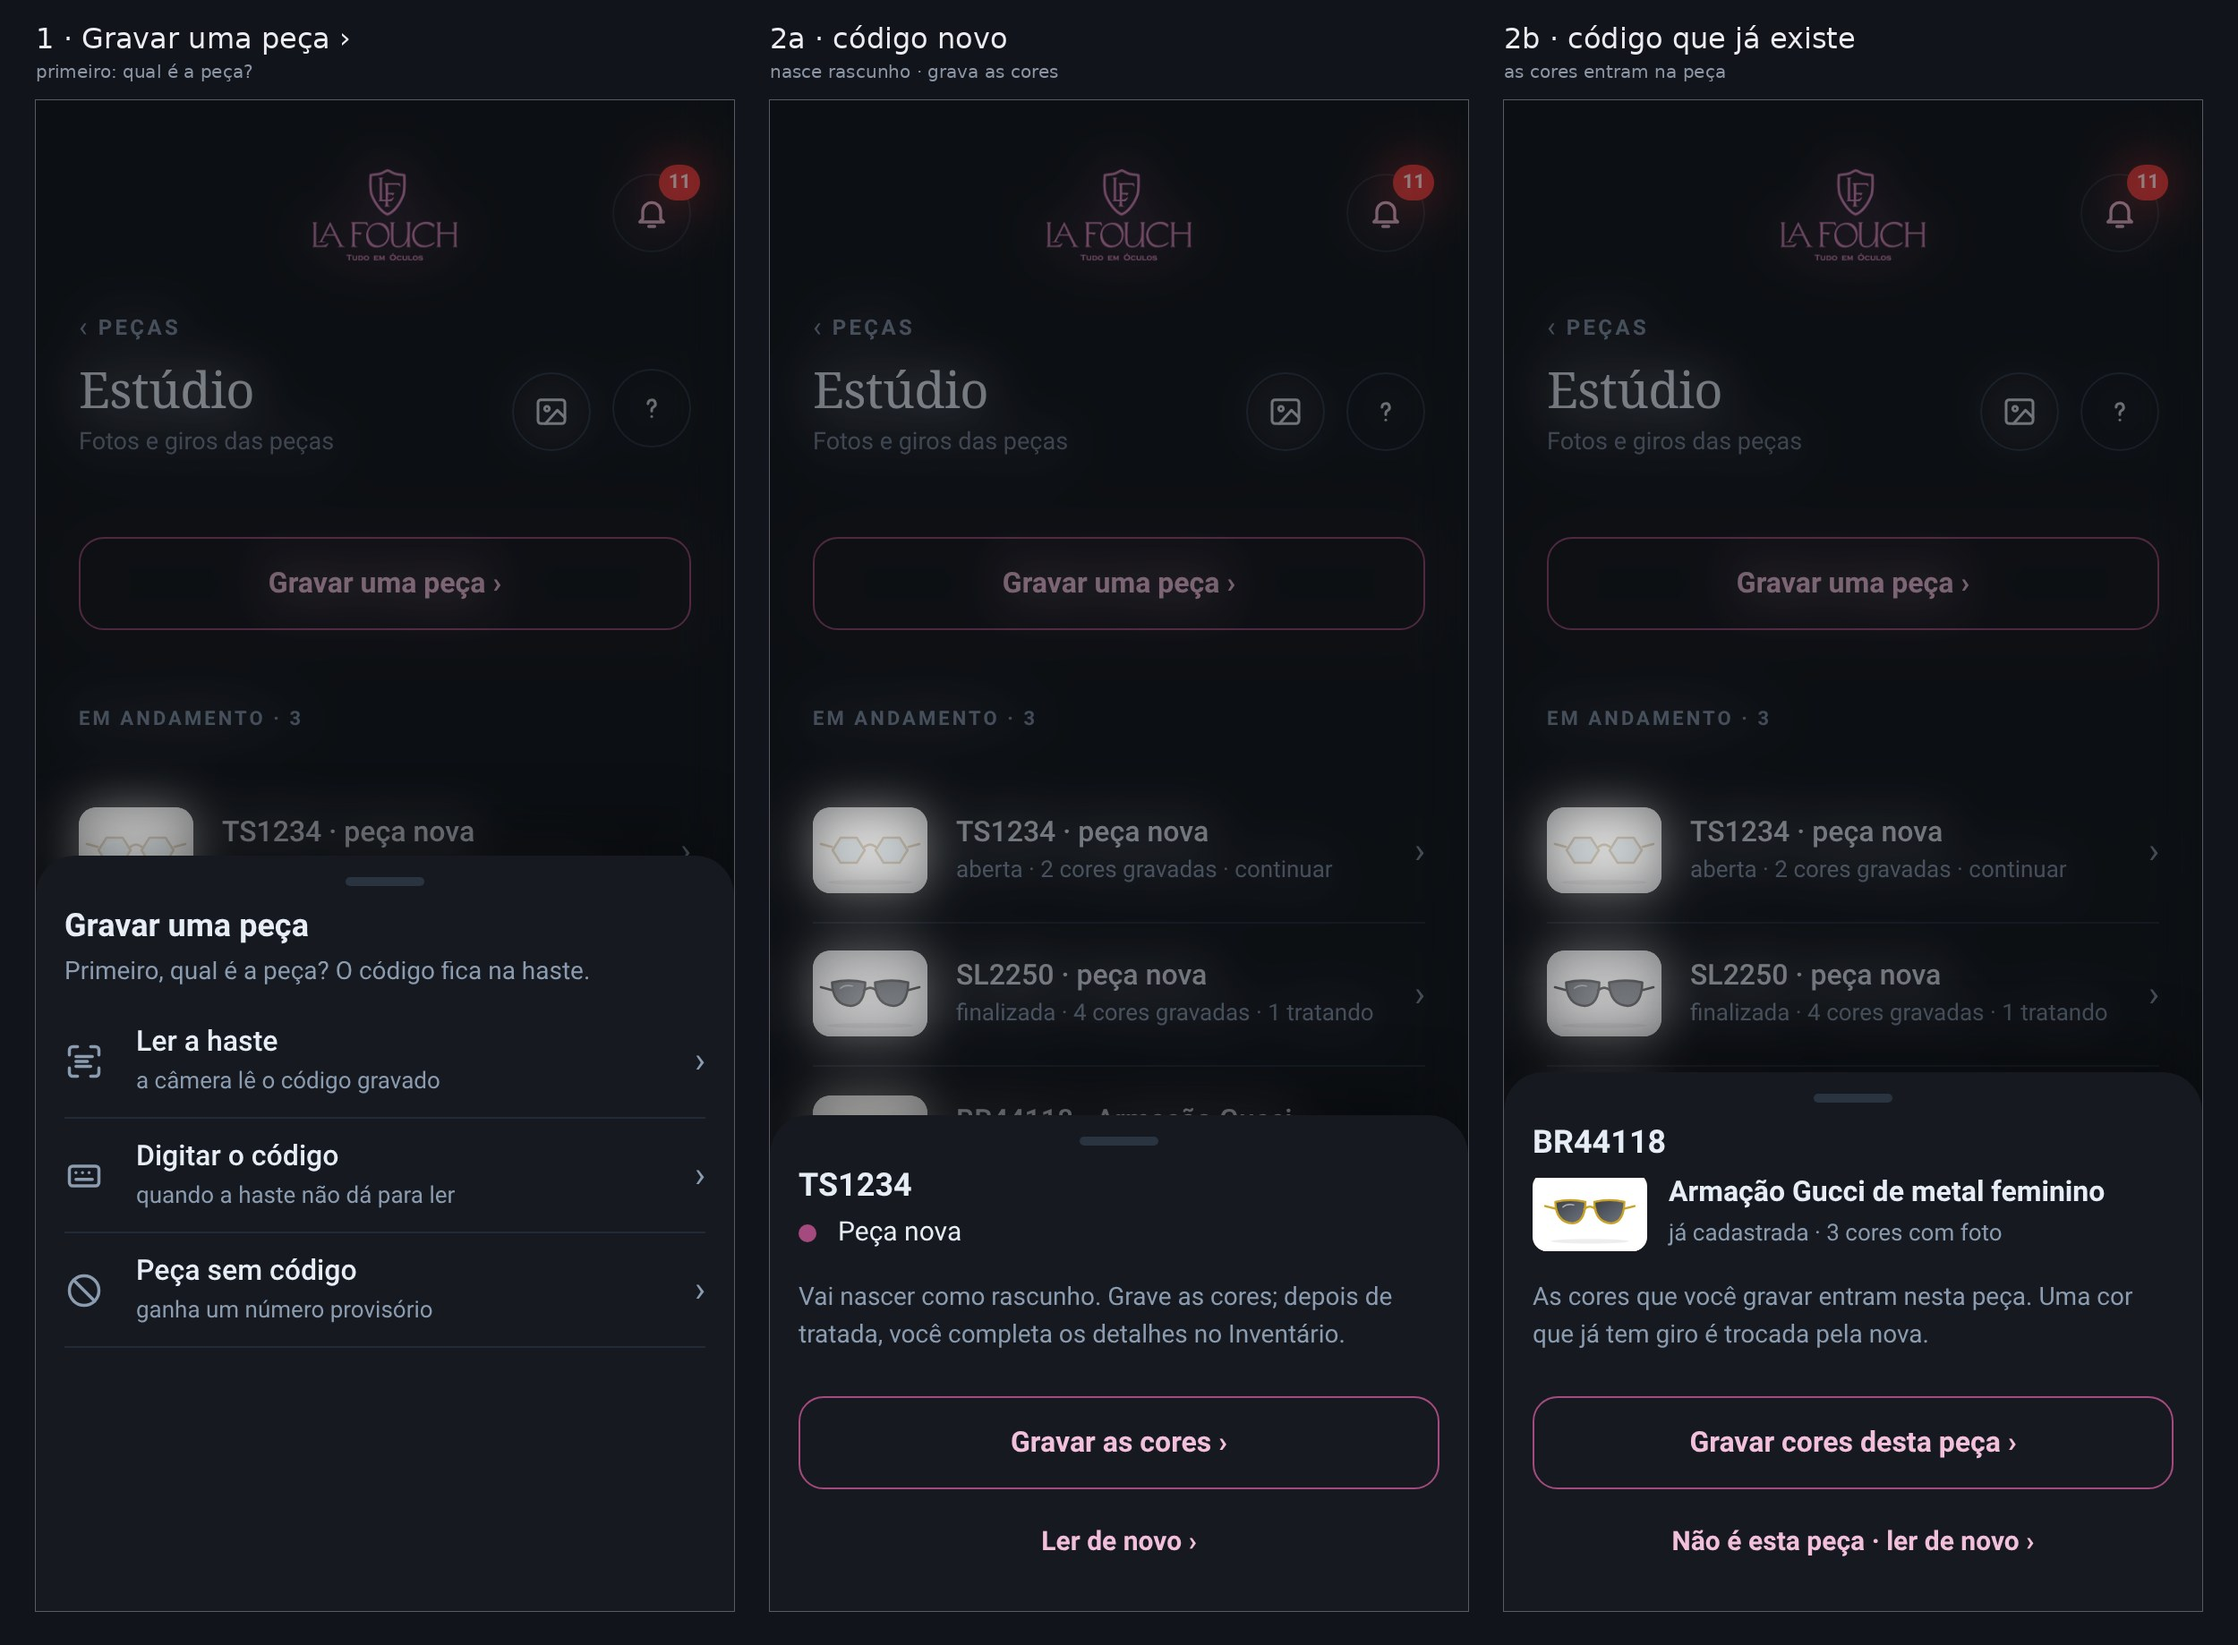
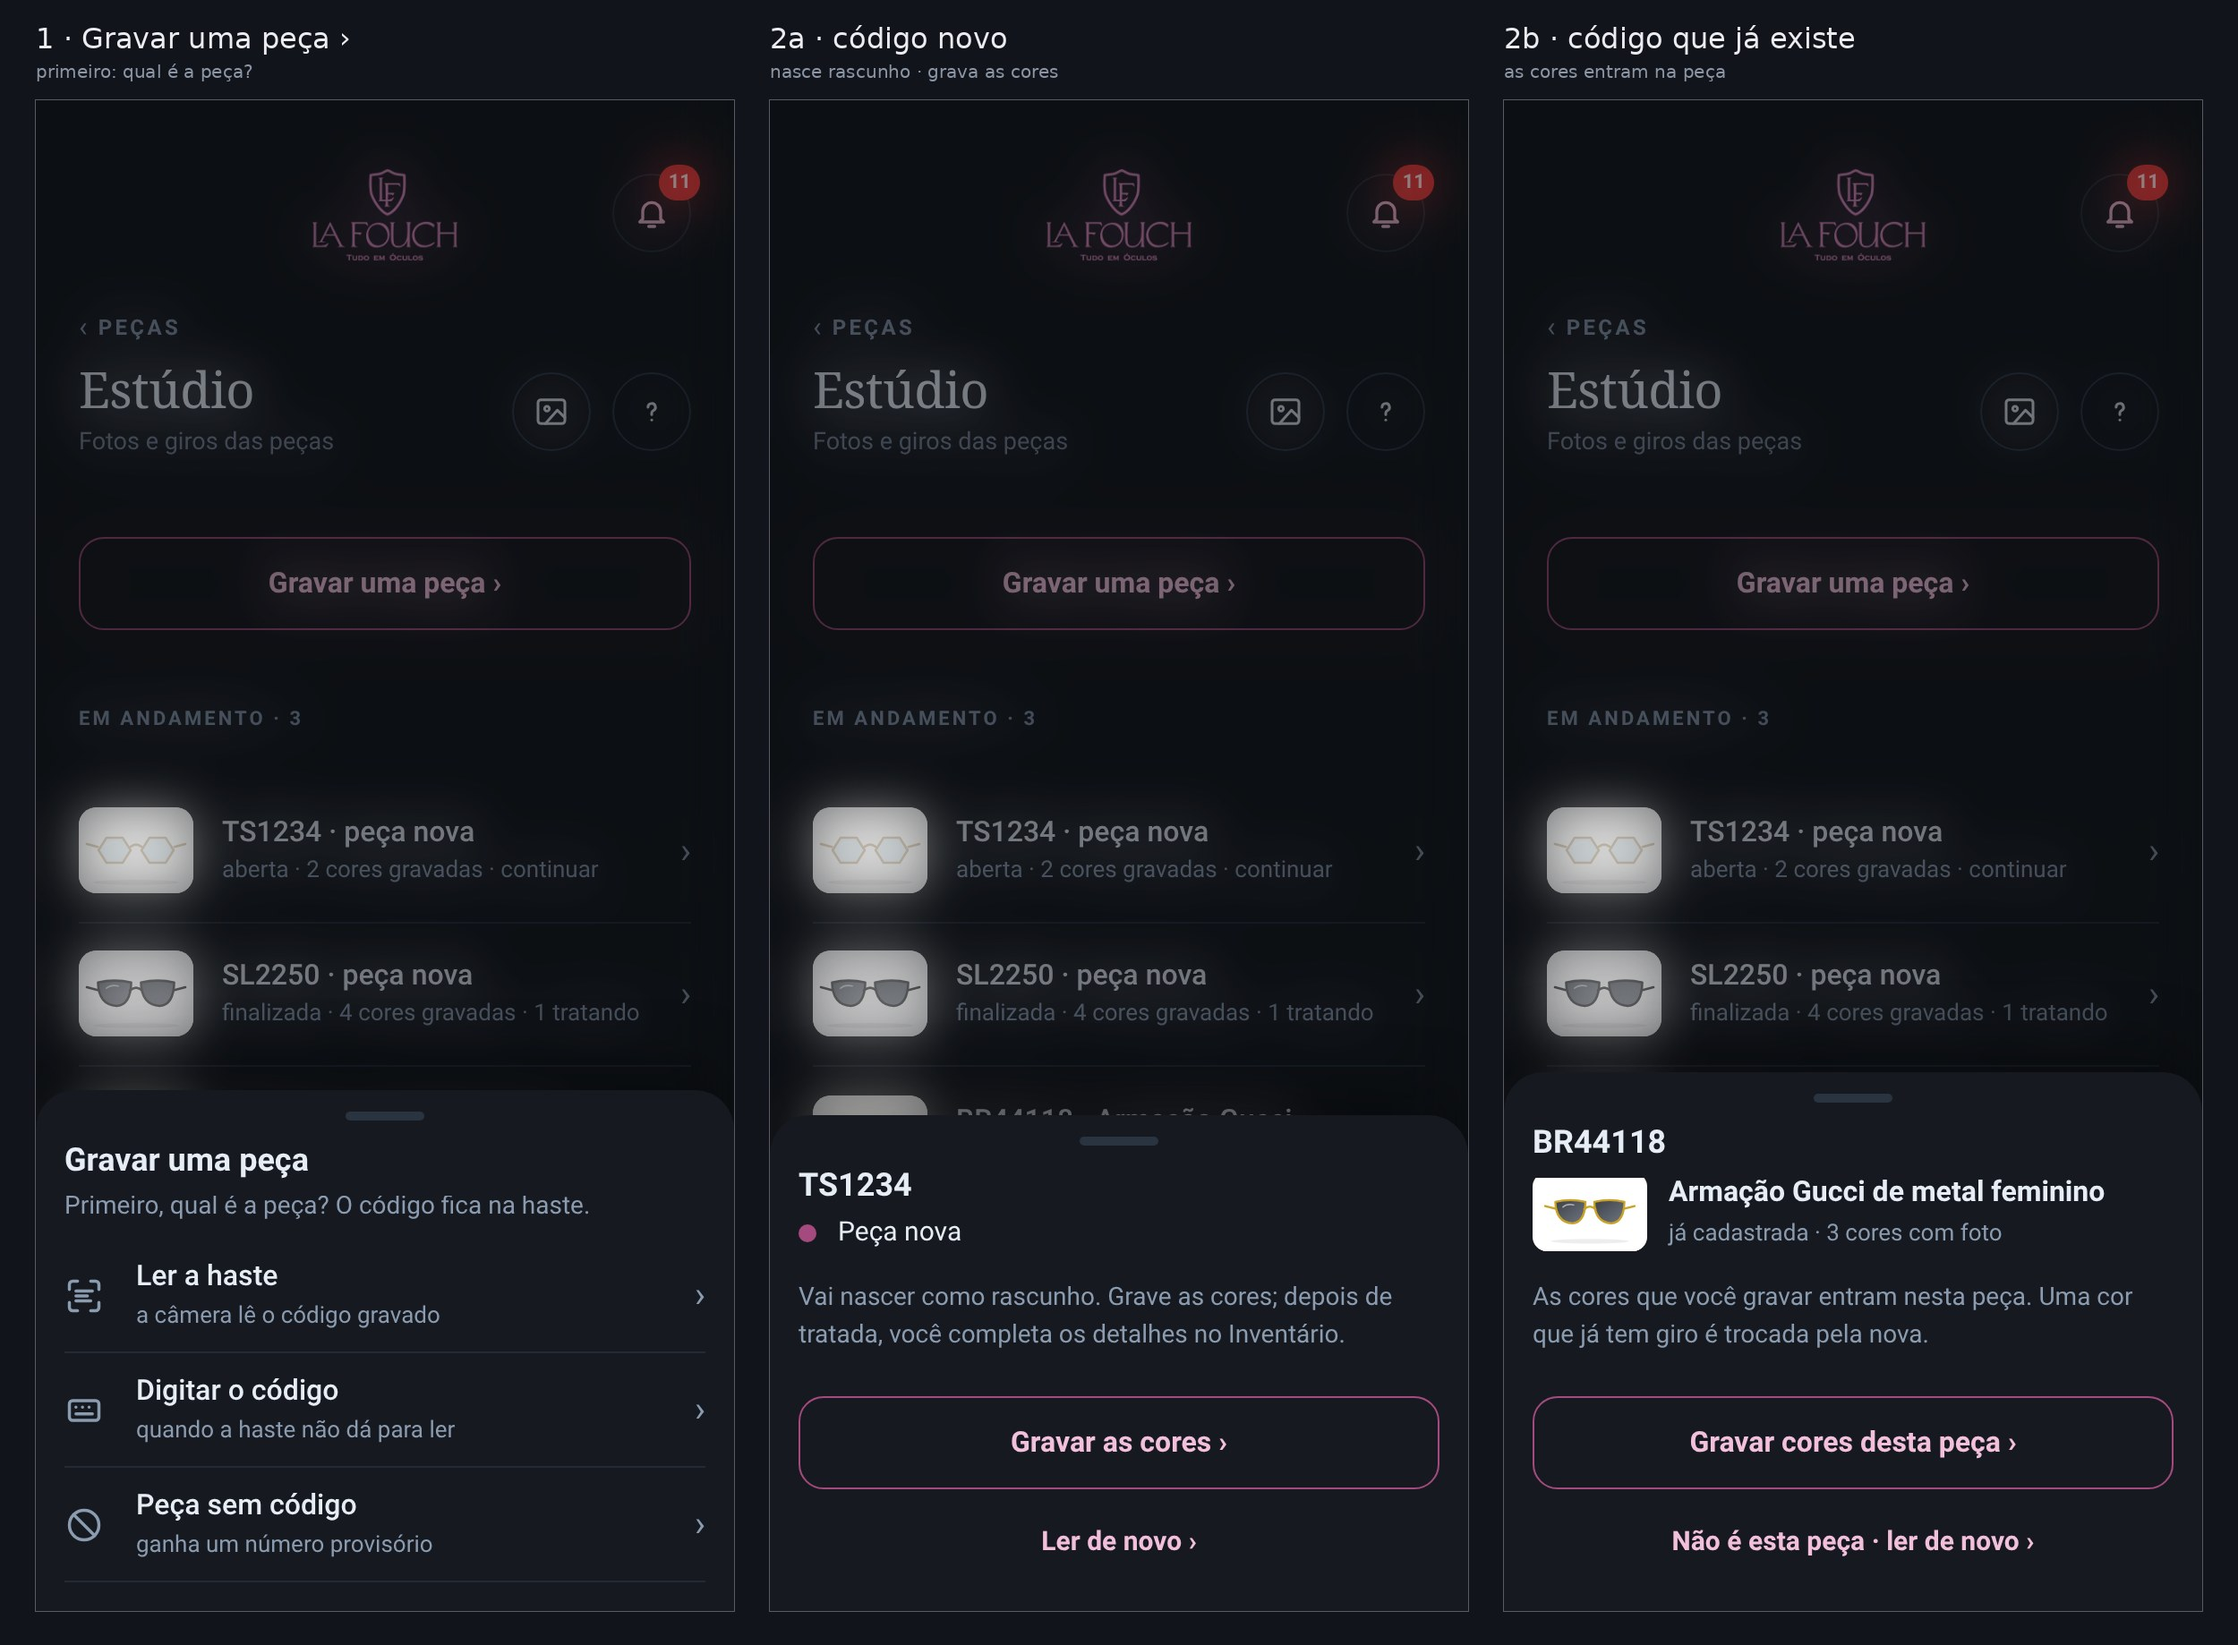
esboço 45: sem Controles manuais; ? só ajuda; Medir fundo automático (dono 11:02)
Claude-Session: https://claude.ai/code/session_01Vj5GPRt4UBskC3w8v52h7G

diff --git a/work/s435/fluxo/esboco_45.py b/work/s435/fluxo/esboco_45.py
@@ -50,7 +50,7 @@ def camera(pw):
   pg.evaluate("()=>__LF.inicioGo('est')");pg.wait_for_timeout(1500)
   pg.evaluate("()=>{const b=document.querySelector('[data-i=\"0\"]');b&&b.click()}");pg.wait_for_timeout(5000)
   pg.evaluate(r"""()=>{const o=document.getElementById('estCam');const t=o.querySelector('.ecTag');t.innerHTML='<span style="display:block;font-size:12px;letter-spacing:.12em;text-transform:uppercase;color:rgba(255,255,255,.6)">Giro · cor 3</span><b style="display:block;color:#fff;font-size:15px;font-weight:600;margin-top:2px">TS1234 · peça nova</b>';
-   const vf=o.querySelector('.ecVf');const d=document.createElement('div');d.style.cssText='position:absolute;inset:0;z-index:20;background:rgba(0,0,0,.55);display:flex;align-items:center;justify-content:center';
+   const mn=o.querySelector('.ecMan');if(mn)mn.style.setProperty('visibility','hidden','important');const vf=o.querySelector('.ecVf');const d=document.createElement('div');d.style.cssText='position:absolute;inset:0;z-index:20;background:rgba(0,0,0,.55);display:flex;align-items:center;justify-content:center';
    d.innerHTML='<div style="background:var(--panel);border-radius:22px;padding:20px 22px;width:420px;max-width:90%;color:var(--fg);font-family:Roboto,system-ui,sans-serif"><div style="display:flex;align-items:center;gap:10px"><span style="width:22px;height:22px;border-radius:50%;background:#2fe08f;display:grid;place-items:center;color:#0b2a19;font-weight:800;font-size:13px">✓</span><b style="font-size:17px">Cor 2 gravada</b></div><div style="color:var(--mute);font-size:14px;margin:6px 0 16px 32px">tratando por trás · 1 na fila</div><button type="button" style="display:block;width:100%;min-height:52px;border-radius:14px;border:1.5px solid var(--accent);background:none;color:var(--accent-fg);font:inherit;font-size:16px;font-weight:700">Gravar outra cor</button><button type="button" style="display:block;width:100%;min-height:48px;margin-top:8px;background:none;border:0;color:var(--fg);font:inherit;font-size:15px;font-weight:600">Finalizar peça ›</button></div>';
    vf.appendChild(d);const l=o.querySelector('.ecLista');if(l)l.innerHTML='';const fx=()=>{const L=o.querySelector('.ecLista');if(L){const sp=[...L.children];if(sp[0]&&/Celular deitado/.test(sp[0].textContent)){sp[0].lastChild.textContent='Câmera reta';const n=sp[3].cloneNode(true);n.lastChild.textContent='Peça reta';sp[3].after(n)}}const Fr=o.querySelector('.ecFrase');if(Fr){const tn=[...Fr.childNodes].filter(n=>n.nodeType==3||n.tagName=='B'||n.tagName=='SPAN').pop();if(tn&&tn.textContent!=='Falta luz: aumente a luz da caixa')tn.textContent='Falta luz: aumente a luz da caixa'}};new MutationObserver(fx).observe(o,{subtree:true,childList:true});setInterval(fx,150)}""");pg.wait_for_timeout(800)
   f='/tmp/f45_cam.png';pg.screenshot(path=f);b.close();x=Image.open(f);x.load();return x.copy()

diff --git a/work/s435/fluxo/COMO-FAZER-45.md b/work/s435/fluxo/COMO-FAZER-45.md
@@ -78,3 +78,12 @@ Peça que já existe (código lido) não vira rascunho: as cores gravadas entram
 ## Correções do dono (21/11 10:53–10:55)
 - Sai a barra de progresso: não se sabe quantas cores a peça tem.
 - "Terminei" era ambíguo: sair para vender não é terminar. O botão chama-se **"Finalizar peça"**, sair só pausa e não há pergunta na saída.
+
+## Ajustes mortos do Estúdio (dono 21/11 11:01–11:02: "todos esses ajustes estão mortos e inúteis")
+- **Saem os Controles manuais** (o botão do canto da câmera, `ecMan` / `c262Manual` em 98z-camera-s262.js): Medir o fundo, espera de 2 s, peaking, gráfico de luz, ISO/velocidade/branco/foco/exposição e lente. Sai também o código que eles mandavam, se nada mais o usar (conferir com o app rodando).
+- **O "?" do Estúdio fica só com a ajuda** ("Como fotografar"). Saem:
+  - **Montagem** (`S.estMont`: é só gravada e nada a lê; morta). Sai também o campo na persistência (99-render-persistencia.js:274).
+  - **"Vídeo 360 (giro)"**: porta repetida ao lado de "Gravar uma peça".
+  - **"O que meu celular libera"** (`estLibera`).
+- **Medir o fundo fica automático:** quando o conferidor percebe que a luz do fundo mudou desde a última medida (`S.estPerfil`), o app mede de novo sozinho e avisa numa linha. O botão "Medir o fundo de novo" sai.
+- Trava: a câmera não tem `.ecMan`; o "?" abre só "Como fotografar"; `S.estMont` não existe.

diff --git a/docs/MEMORIA-PROJETO.md b/docs/MEMORIA-PROJETO.md
@@ -3436,3 +3436,5 @@ Testar TUDO, com muita calma, antes de dizer que está pronto ou de publicar: ca
     - o "Ler haste" do Adicionar
   - O Adicionar fica só com "Chegou mercadoria" e "Preencher à mão" (peça sem foto).
   - O esboço 41c vai para obsoletos; o 44 é refeito por este rumo (esboço 45).
+
+- 21/11 11:01–11:02 — DONO, ajustes do Estúdio: os Controles manuais da câmera saem ("inútil"). O "?" fica **só** com a ajuda ("Como fotografar"). Saem a Montagem (morta: nada lê `S.estMont`), "Vídeo 360" (porta repetida) e "O que meu celular libera". Medir o fundo fica automático. "Todos esses ajustes estão mortos e inúteis." Anotado no esboço 45.
